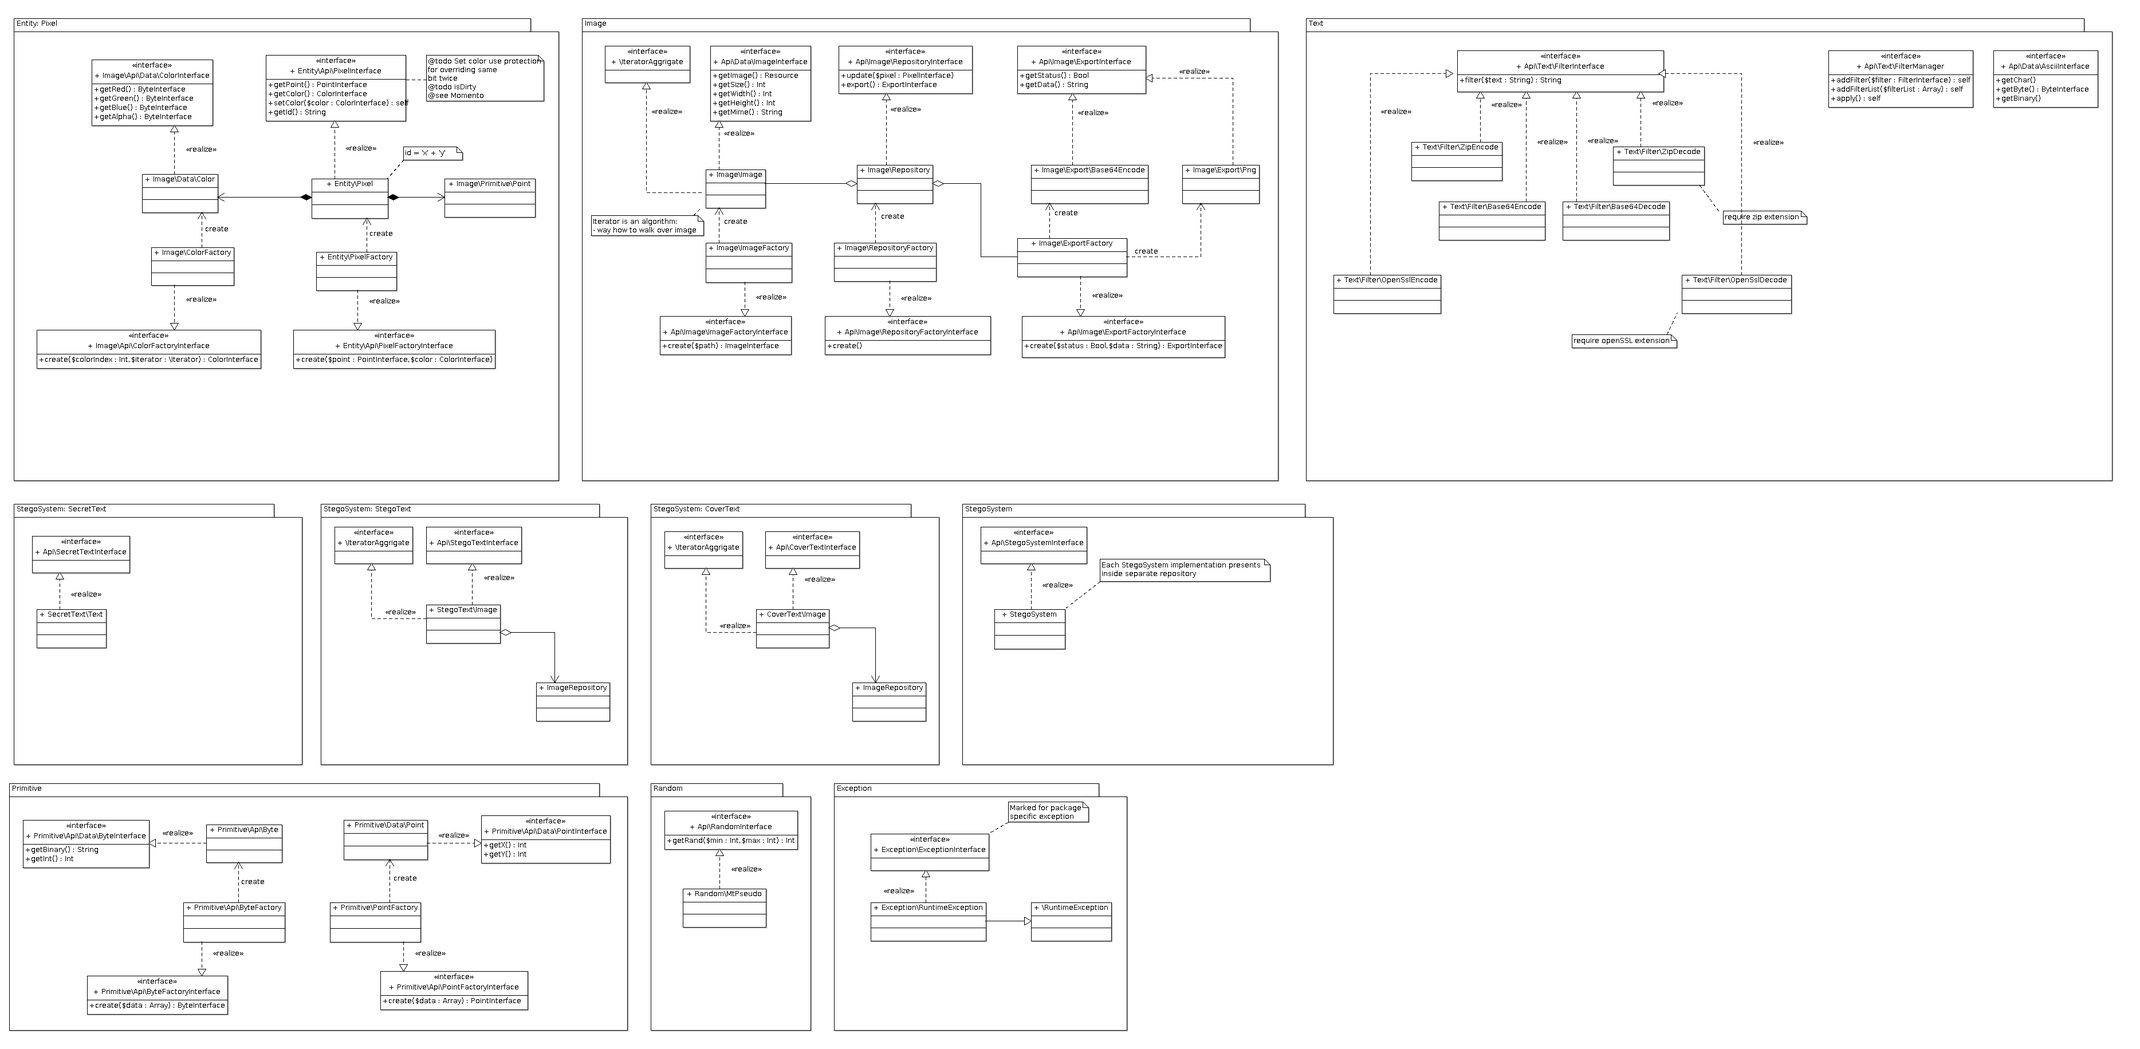
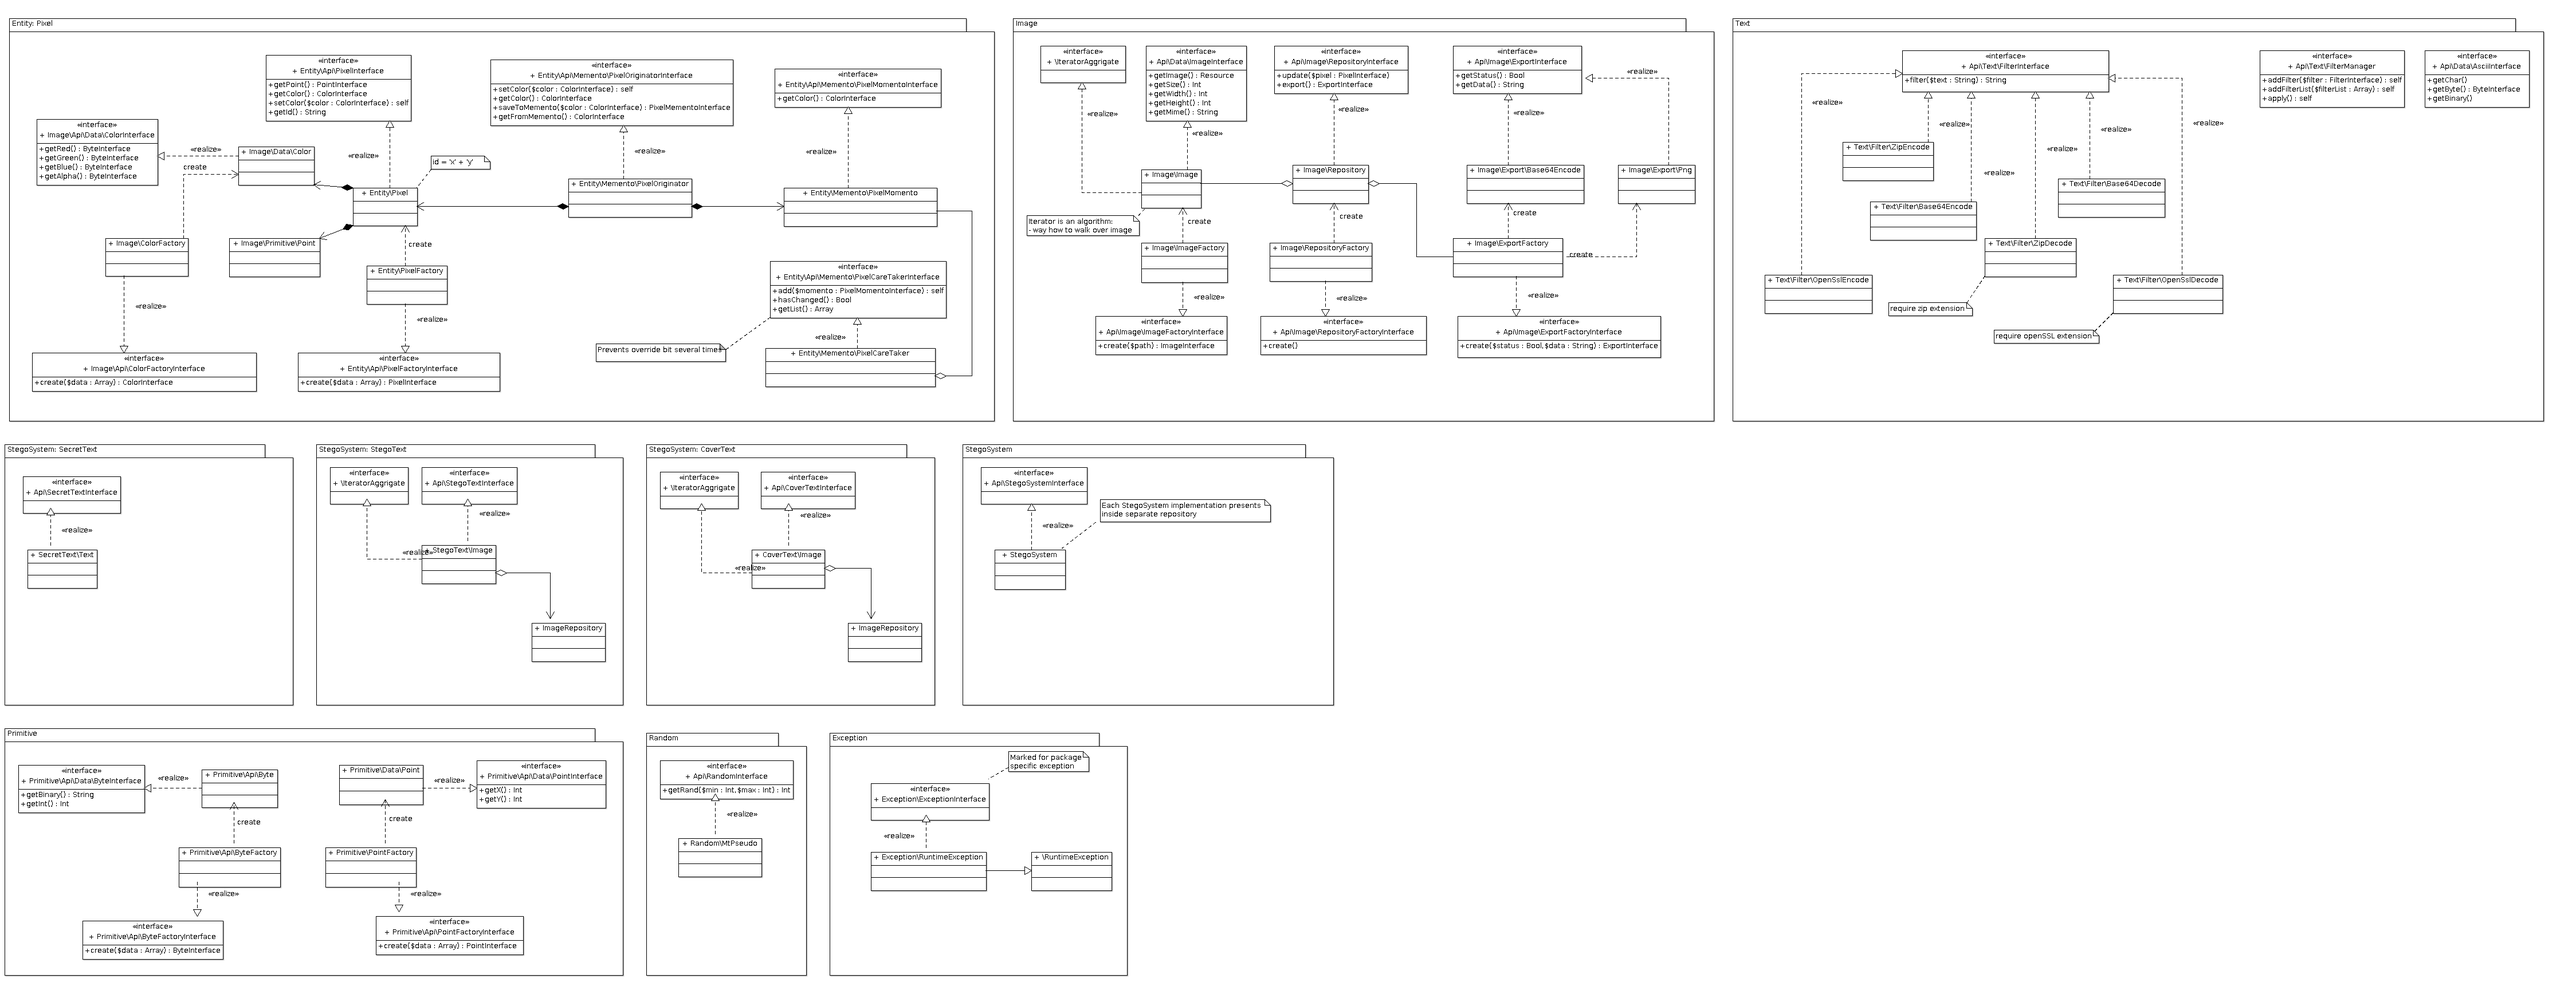
Added interfaces for Pixel Memento

diff --git a/src/Entity/Api/Memento/PixelOriginatorInterface.php b/src/Entity/Api/Memento/PixelOriginatorInterface.php
@@ -1,0 +1,40 @@
+<?php
+namespace Picamator\SteganographyKit2\Entity\Api\Memento;
+
+use Picamator\SteganographyKit2\Image\Api\Data\ColorInterface;
+
+/**
+ * Pixel originator
+ */
+interface PixelOriginatorInterface
+{
+    /**
+     * Sets color
+     *
+     * @param ColorInterface $color
+     *
+     * @return PixelOriginatorInterface
+     */
+    public function setColor(ColorInterface $color) : PixelOriginatorInterface;
+
+    /**
+     * Gets color
+     *
+     * @return ColorInterface
+     */
+    public function getColor() : ColorInterface;
+
+    /**
+     * Saves to memento
+     *
+     * @return PixelMementoInterface
+     */
+    public function saveToMemento() : PixelMementoInterface;
+
+    /**
+     * Gets from memento
+     *
+     * @return ColorInterface
+     */
+    public function getFromMemento() : ColorInterface;
+}

diff --git a/src/Entity/Api/Memento/PixelCareTakerInterface.php b/src/Entity/Api/Memento/PixelCareTakerInterface.php
@@ -1,0 +1,35 @@
+<?php
+namespace Picamator\SteganographyKit2\Entity\Api\Memento;
+
+use Picamator\SteganographyKit2\Exception\InvalidArgumentException;
+
+/**
+ * Pixel care taker
+ */
+interface PixelCareTakerInterface
+{
+    /**
+     * Adds memento
+     *
+     * @param PixelMementoInterface $memento
+     *
+     * @return PixelCareTakerInterface
+     *
+     * @throws InvalidArgumentException on attempt trying change bit twice
+     */
+    public function add(PixelMementoInterface $memento) : PixelCareTakerInterface;
+
+    /**
+     * Gets memento's list
+     *
+     * @return array
+     */
+    public function getList() : array;
+
+    /**
+     * Has color been changed
+     *
+     * @return bool true if color was changed, false otherwise
+     */
+    public function hasChanged() : bool;
+}

diff --git a/src/Entity/Api/Memento/PixelMementoFactoryInterface.php b/src/Entity/Api/Memento/PixelMementoFactoryInterface.php
@@ -1,0 +1,20 @@
+<?php
+namespace Picamator\SteganographyKit2\Entity\Api\Memento;
+
+/**
+ * Create pixel memento value object
+ */
+interface PixelMementoFactoryInterface
+{
+    /**
+     * Create
+     *
+     * @param array $data
+     *
+     * @return PixelMementoInterface
+     *
+     * @throws \Picamator\SteganographyKit2\Exception\InvalidArgumentException
+     * @throws \Picamator\SteganographyKit2\Exception\LogicException
+     */
+    public function create(array $data) : PixelMementoInterface;
+}

diff --git a/src/Entity/Api/Memento/PixelMementoInterface.php b/src/Entity/Api/Memento/PixelMementoInterface.php
@@ -1,0 +1,17 @@
+<?php
+namespace Picamator\SteganographyKit2\Entity\Api\Memento;
+
+use Picamator\SteganographyKit2\Image\Api\Data\ColorInterface;
+
+/**
+ * Pixel memento
+ */
+interface PixelMementoInterface
+{
+    /**
+     * Gets color
+     *
+     * @return ColorInterface
+     */
+    public function getColor() : ColorInterface;
+}
